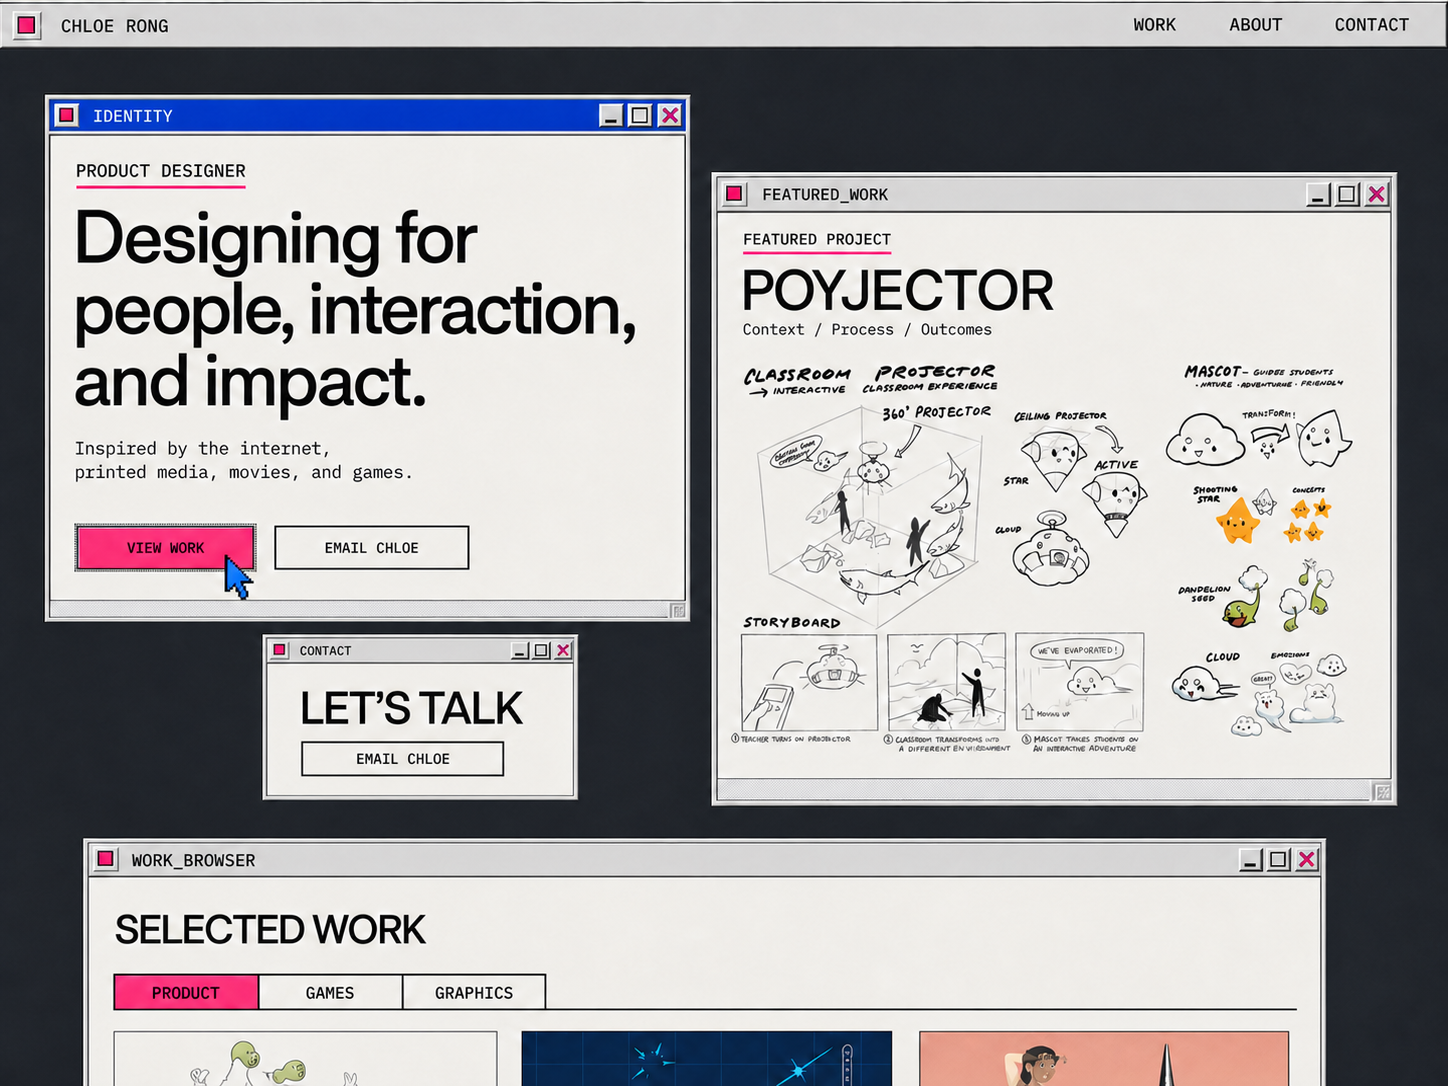
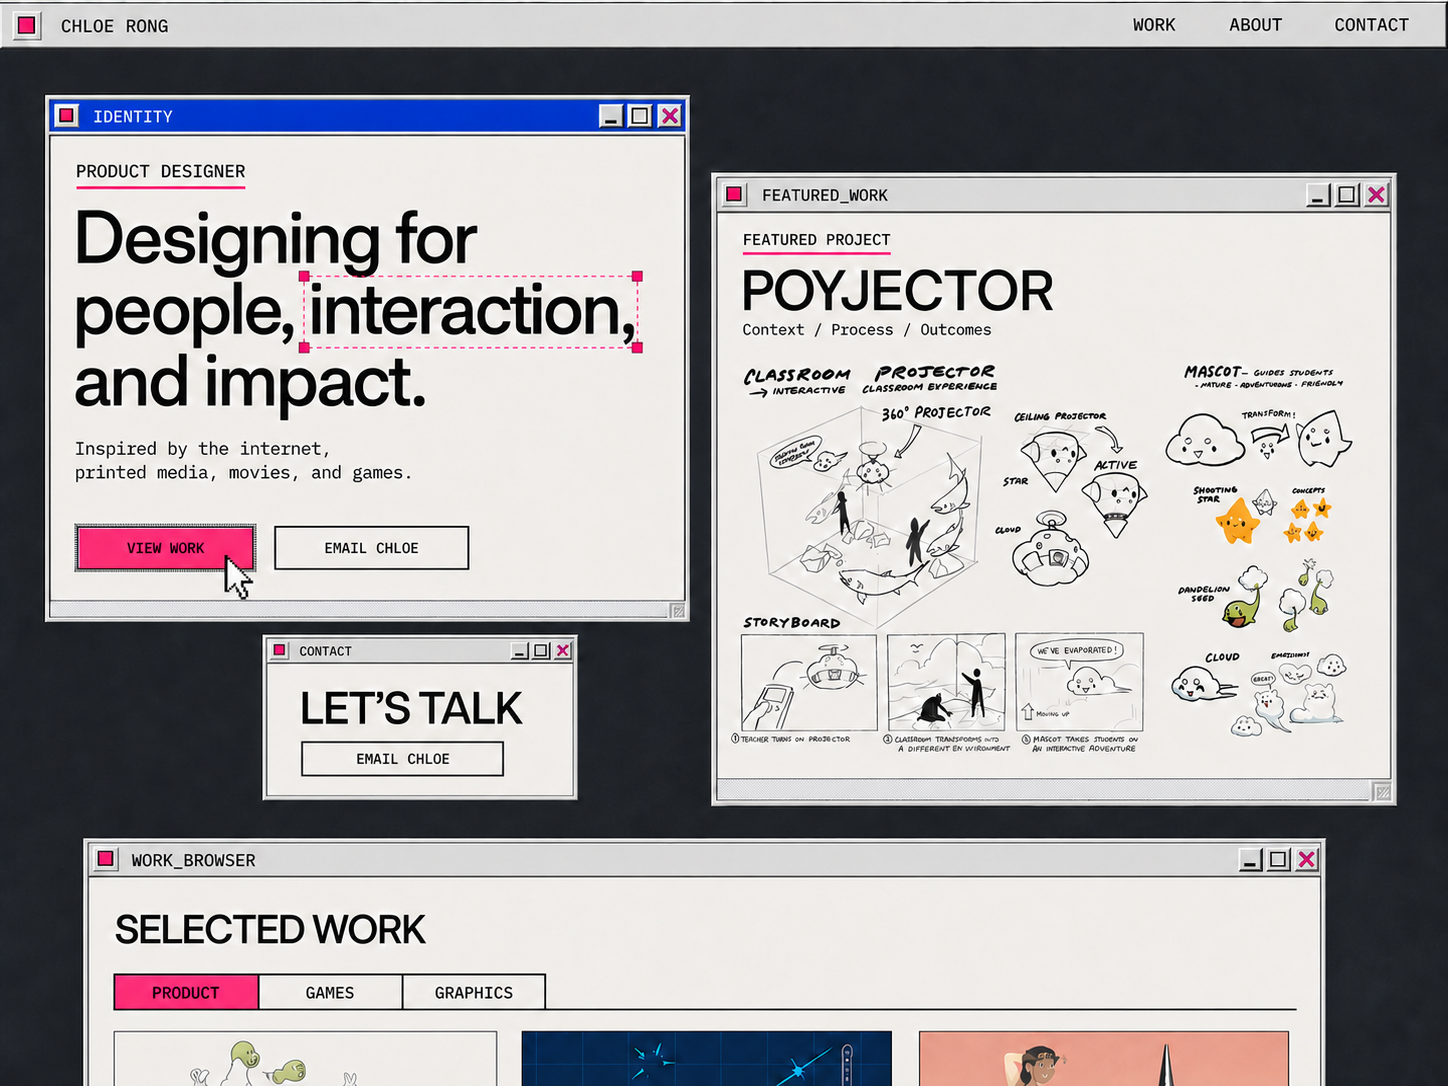
Refine selected homepage direction

diff --git a/design/README.md b/design/README.md
@@ -11,6 +11,10 @@ These notes identify transferable qualities, not a chosen visual direction. Chlo
 - **Atmosphere:** Experimental and playful without becoming overly energetic.
 - **Interaction:** Interactions should feel intentional and respond to deliberate user input rather than animate constantly or compete for attention.
 - **Section grammar:** Distinct content areas should use single, accurately constructed light retro-computer windows on a dark desktop: beveled frames, active and inactive title bars, compact controls, inset workspaces, and status strips without doubled backing layers.
+- **Homepage composition:** Use `01-direction.png` (“Window Cascade”) as the selected layout, with separate overlapping windows establishing the hierarchy.
+- **About treatment:** Carry the editable-selection box from `02-direction.png` into the identity/about statement as a focused pink selection state.
+- **Tabs:** Treat the Work Browser tabs as intentional interactive controls, not decorative labels.
+- **Cursor:** Render the retro pointer with a white fill and crisp black pixel outline; keep Cursor Blue available as a broader accent color.
 
 ## `emmi-wu-homepage.png`
 
